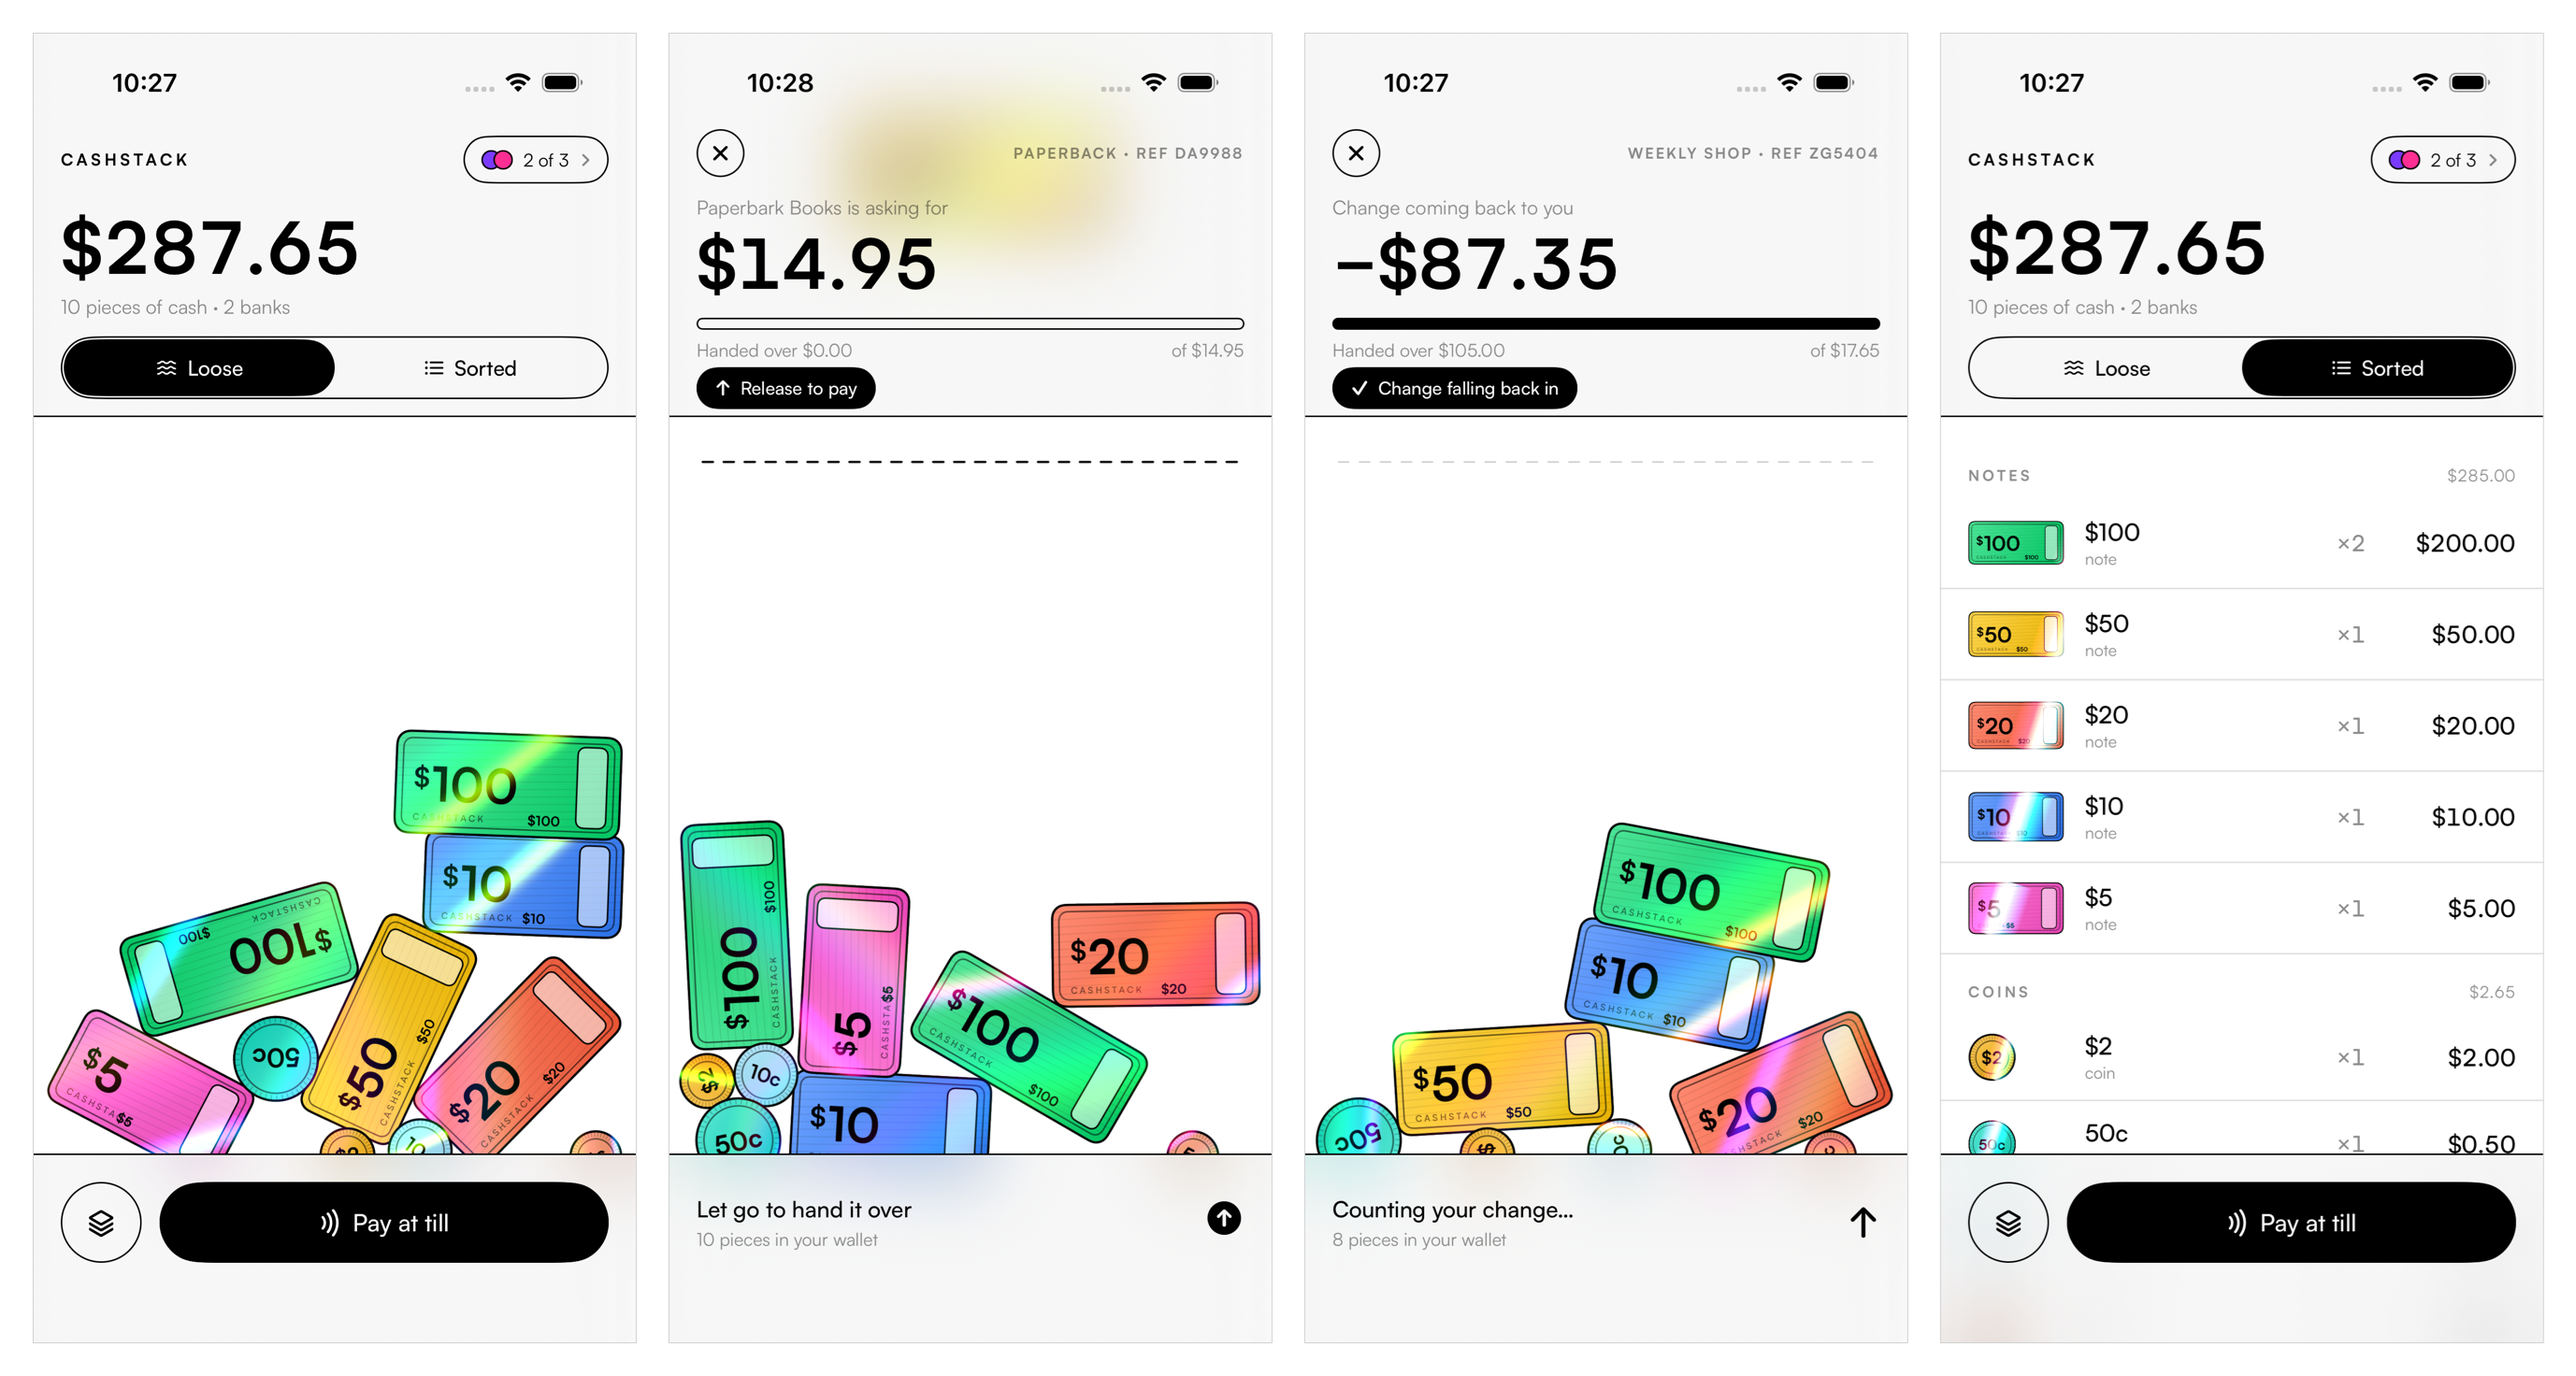
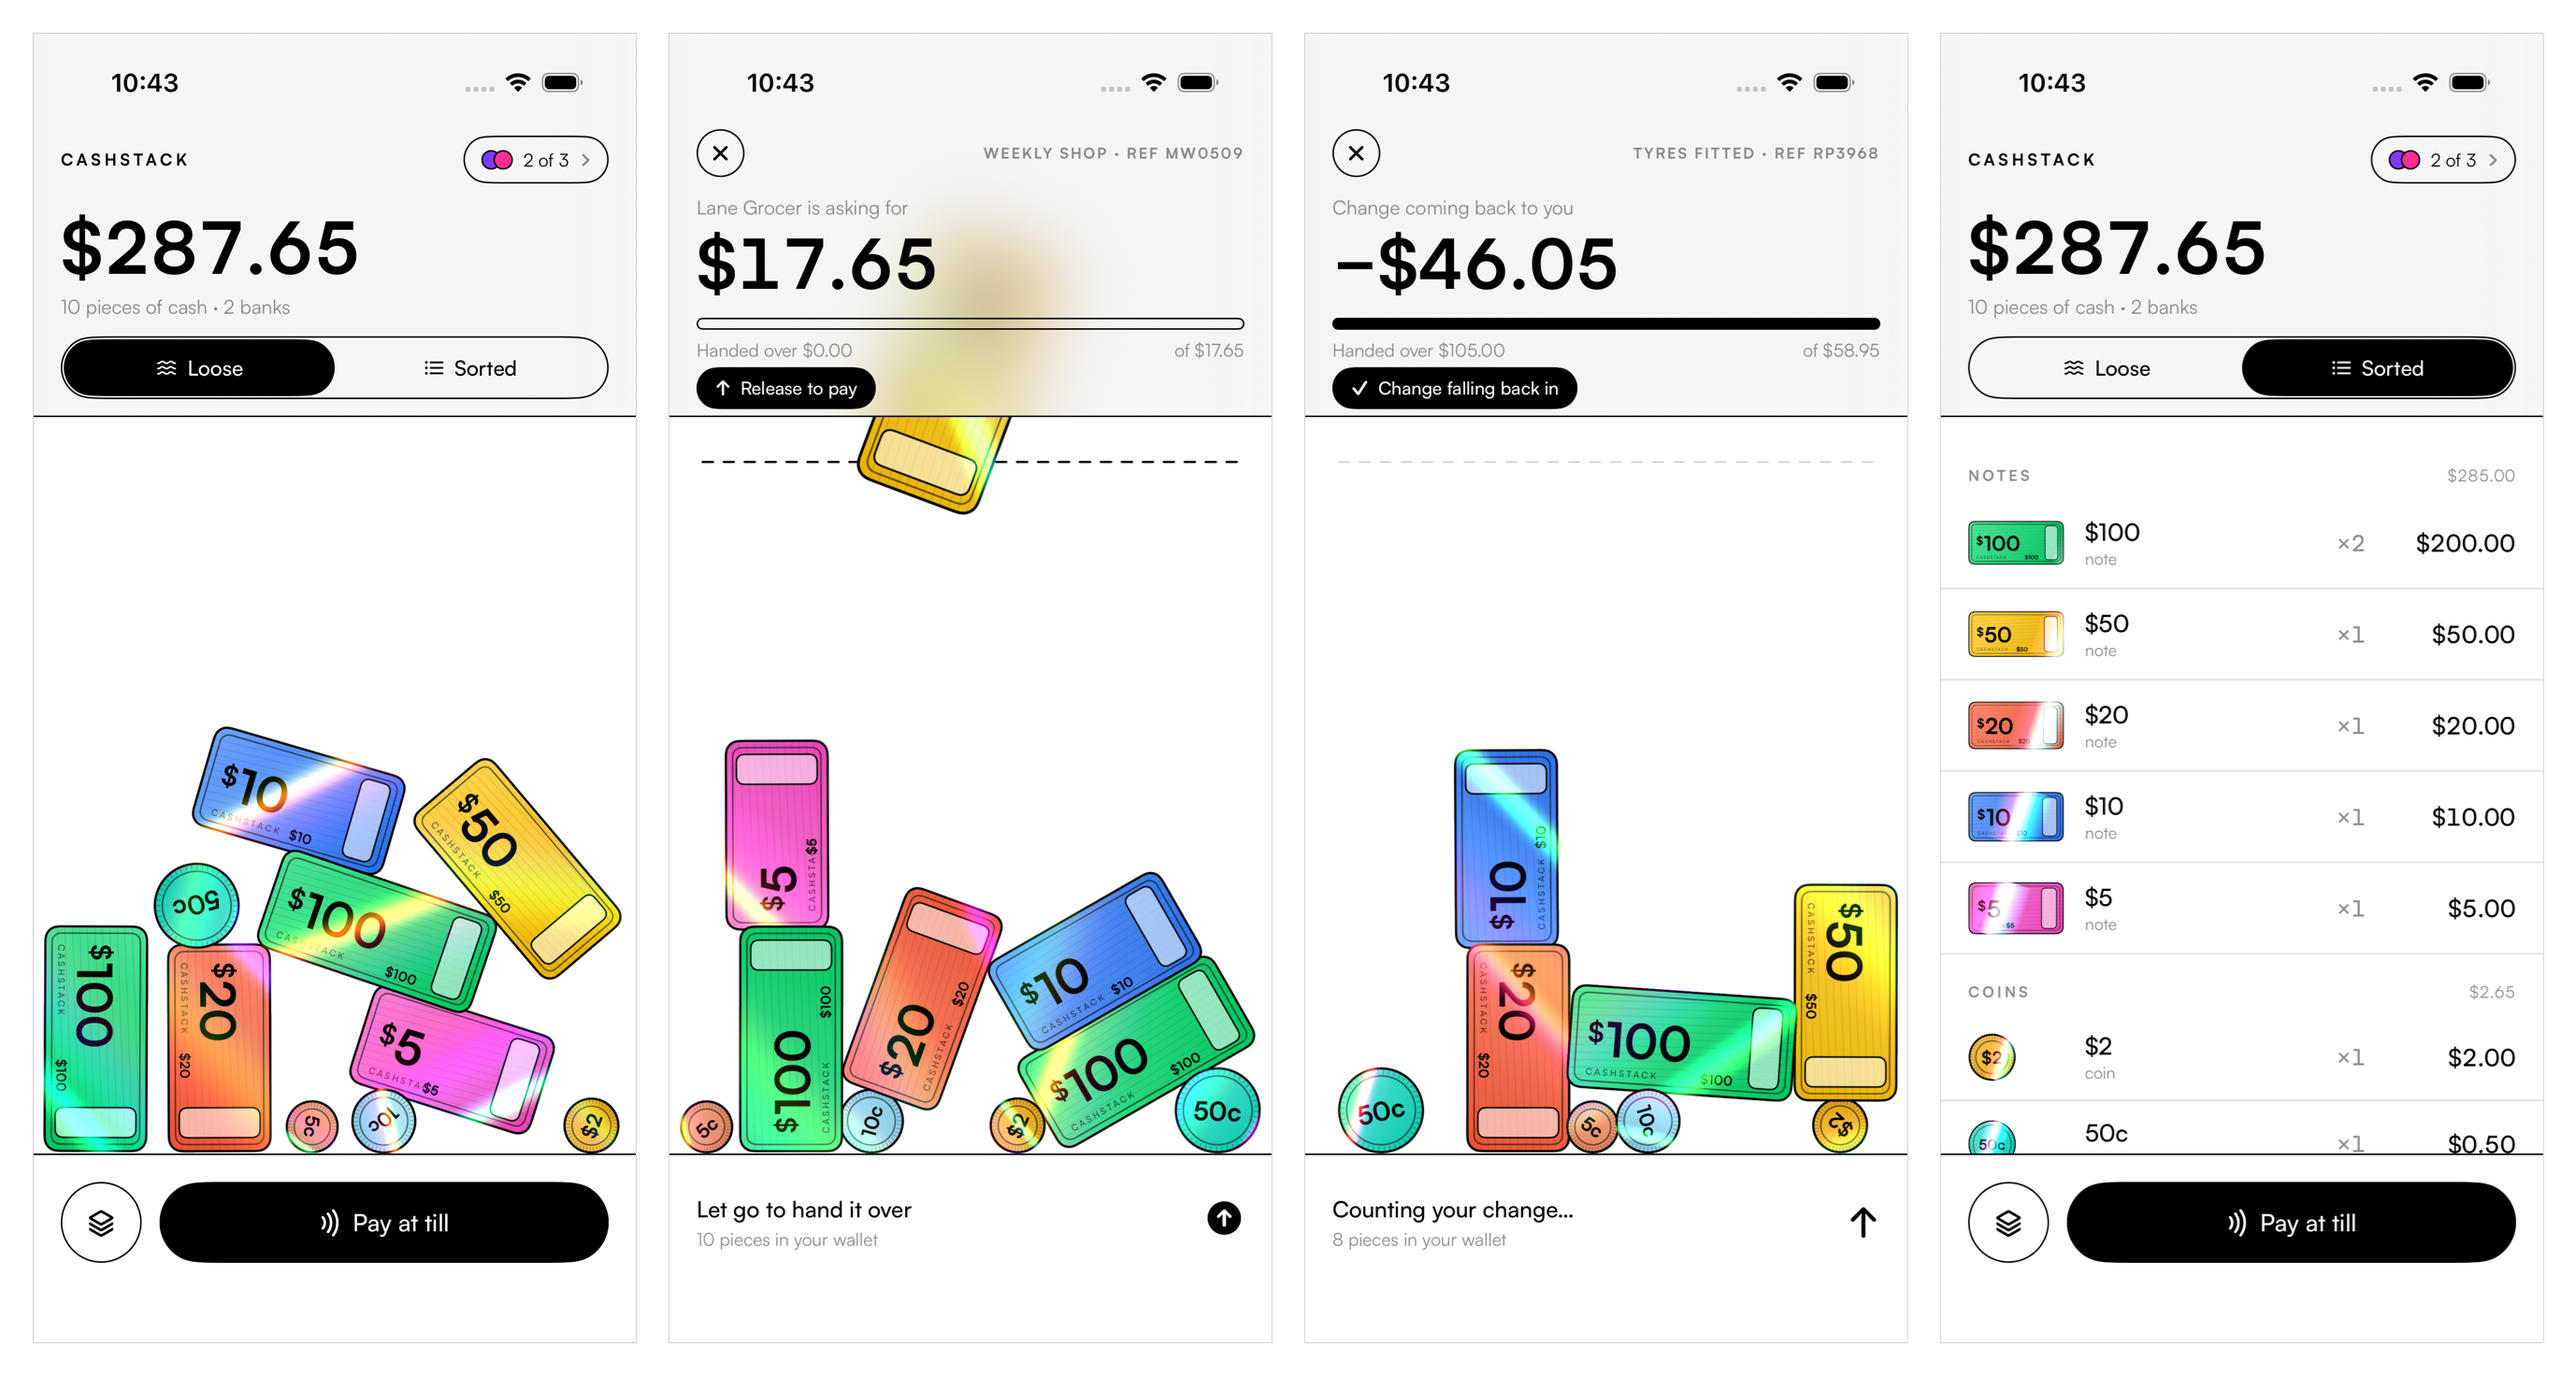
Clear the top glass, make the bottom bar solid
The top bar loses its white scrim and is now plain ultraThinMaterial, so
money held above the pay line reads through it properly.

The bottom bar is no longer glass: cash was tucking 20pt underneath it and
being lost. It is solid now, and the pile's floor sits on its top edge so
every piece stays visible.

Also make the countdown test assert the arithmetic rather than assuming
which piece the drag picks up. Where the pile settles decides what is
lying on top of what, so reaching for the smallest coin can come back
with the note covering it — the invariant worth testing is that the
figure drops by exactly what was handed over. It now waits for the tally
instead of sleeping, which also keeps the read clear of the settle delay.

diff --git a/CashStack/Views/RootView.swift b/CashStack/Views/RootView.swift
@@ -45,14 +45,14 @@ struct RootView: View {
                     header
                         .frame(height: headerHeight)
                         .padding(.top, safeTop)
-                        .background(GlassChrome(edge: .top))
+                        .background(TopGlass())
 
                     Spacer(minLength: 0)
 
                     footer
                         .frame(height: footerHeight)
                         .padding(.bottom, safeBottom)
-                        .background(GlassChrome(edge: .bottom))
+                        .background(BottomBar())
                 }
                 .ignoresSafeArea()
 
@@ -67,7 +67,8 @@ struct RootView: View {
             .task(id: geo.size) {
                 configureScene()
                 scene.payLineInset = safeTop + headerHeight + 30
-                scene.floorInset = safeBottom + footerHeight - 20
+                // The pile rests on the top edge of the bottom bar.
+                scene.floorInset = safeBottom + footerHeight
             }
         }
         .animation(.spring(response: 0.38, dampingFraction: 0.88), value: wallet.request)
@@ -181,16 +182,23 @@ struct RootView: View {
 
 // MARK: - Glass
 
-/// The frosted bar at the top and bottom. Cash stays visible behind it.
-private struct GlassChrome: View {
-    enum Edge { case top, bottom }
-    let edge: Edge
-
+/// The frosted bar at the top. Cash slides up behind it and stays visible,
+/// which is the whole point of it being glass rather than paint.
+private struct TopGlass: View {
     var body: some View {
-        ZStack(alignment: edge == .top ? .bottom : .top) {
-            Rectangle()
-                .fill(.ultraThinMaterial)
-                .overlay(Theme.ground.opacity(0.2))
+        ZStack(alignment: .bottom) {
+            Rectangle().fill(.ultraThinMaterial)
+            Hairline()
+        }
+    }
+}
+
+/// The bottom bar is solid — the pile lands on top of it rather than
+/// disappearing underneath.
+private struct BottomBar: View {
+    var body: some View {
+        ZStack(alignment: .top) {
+            Rectangle().fill(Theme.ground)
             Hairline()
         }
     }

diff --git a/CashStackUITests/PaymentFlowUITests.swift b/CashStackUITests/PaymentFlowUITests.swift
@@ -62,18 +62,29 @@ final class PaymentFlowUITests: XCTestCase {
         XCTAssertTrue(app.staticTexts["outstandingAmount"].waitForExistence(timeout: 5))
         let asked = cents(app.staticTexts["askedAmount"].label)
 
-        // Hand over the smallest piece there is, so the bill is nowhere near covered.
+        // Reach for the smallest piece in the pile. Which piece actually ends up
+        // under the finger is down to where the pile settled and what is lying
+        // on top of what, so the assertion is about the arithmetic rather than
+        // about any particular coin.
         guard let smallest = byValue.reversed().first(where: { !money($0).isEmpty }) else {
             return XCTFail("The wallet should have some coins in it")
         }
         handOver(smallest)
-        Thread.sleep(forTimeInterval: 1.0)
+
+        // The piece flies off the top before it registers, so wait for the
+        // tally rather than sleeping a fixed amount — reading early also keeps
+        // this well clear of the settle delay.
+        var tendered = 0
+        for _ in 0..<30 where tendered == 0 {
+            guard app.staticTexts["tenderedAmount"].exists else { break }
+            tendered = cents(app.staticTexts["tenderedAmount"].label)
+        }
+        XCTAssertGreaterThan(tendered, 0, "Money handed over is counted")
 
         let outstanding = cents(app.staticTexts["outstandingAmount"].label)
-        let tendered = cents(app.staticTexts["tenderedAmount"].label)
-        XCTAssertGreaterThan(tendered, 0, "Money handed over is counted")
-        XCTAssertEqual(outstanding, asked - tendered, "The amount owed counts down")
-        XCTAssertGreaterThan(outstanding, 0, "A single coin should not cover the bill")
+        XCTAssertEqual(outstanding, asked - tendered,
+                       "The figure counts down by exactly what was handed over")
+        XCTAssertLessThan(outstanding, asked, "And it is lower than it started")
     }
 
     func testOverpayingTurnsTheAmountNegative() {

diff --git a/README.md b/README.md
@@ -44,9 +44,10 @@ $14.95 book with a $20 and you are genuinely carrying $5.05 of change
 afterwards — a $5 and a 5c — until you tap **tidy** (the stack icon, bottom
 left), which re-breaks the balance into the fewest possible pieces.
 
-The top and bottom bars are glass, and the physics world runs the full height of
-the screen behind them — so a note swiped up to pay is still visible through the
-frosted bar rather than disappearing under it.
+The top bar is glass and the physics world runs the full height of the screen
+behind it, so a note swiped up to pay is still visible through the frosted bar
+rather than disappearing under it. The bottom bar is solid and the pile lands on
+its top edge, so nothing in the wallet is ever hidden.
 
 ## How it is put together
 
